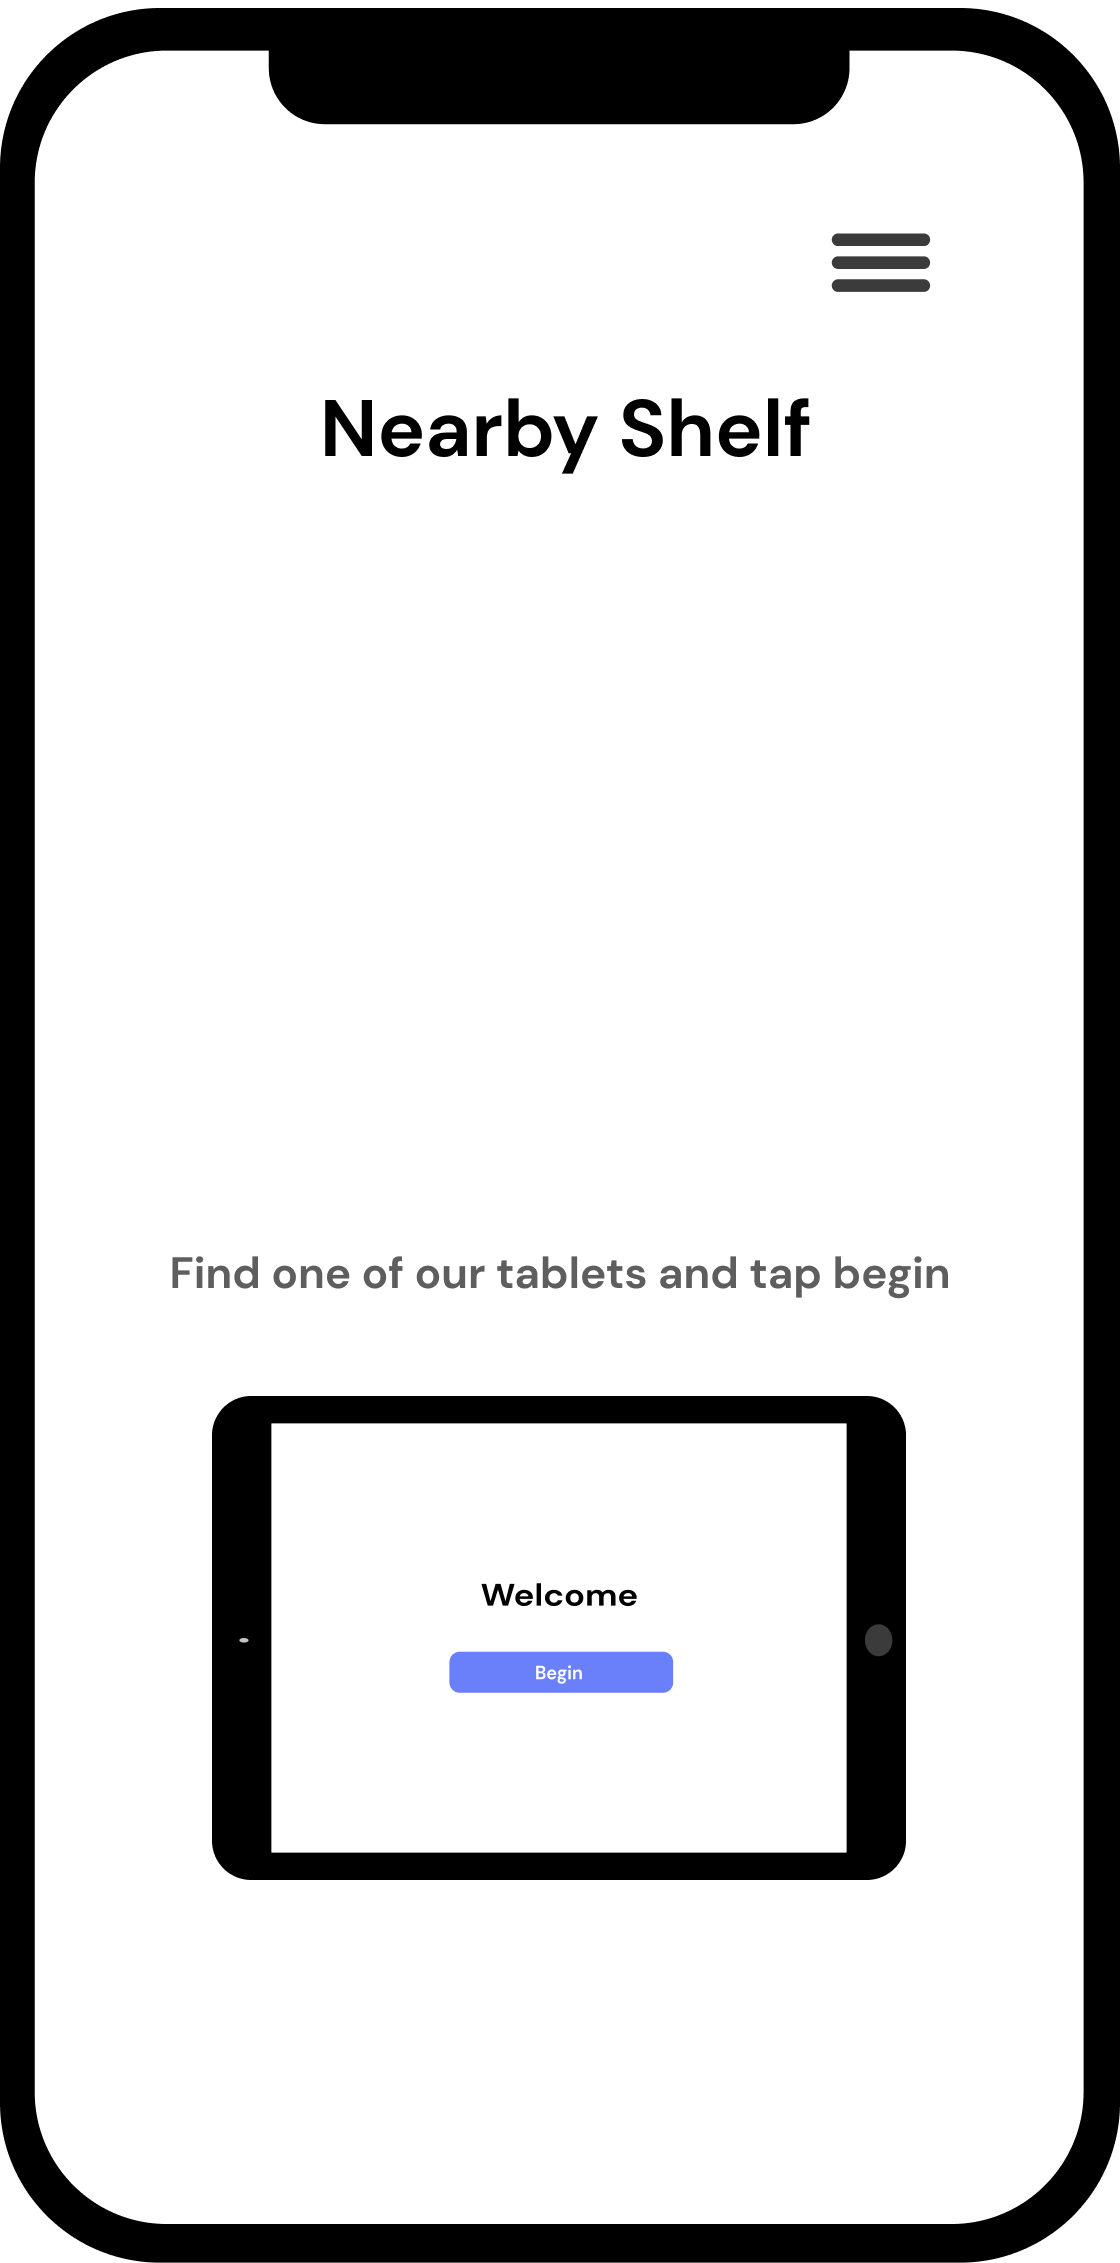
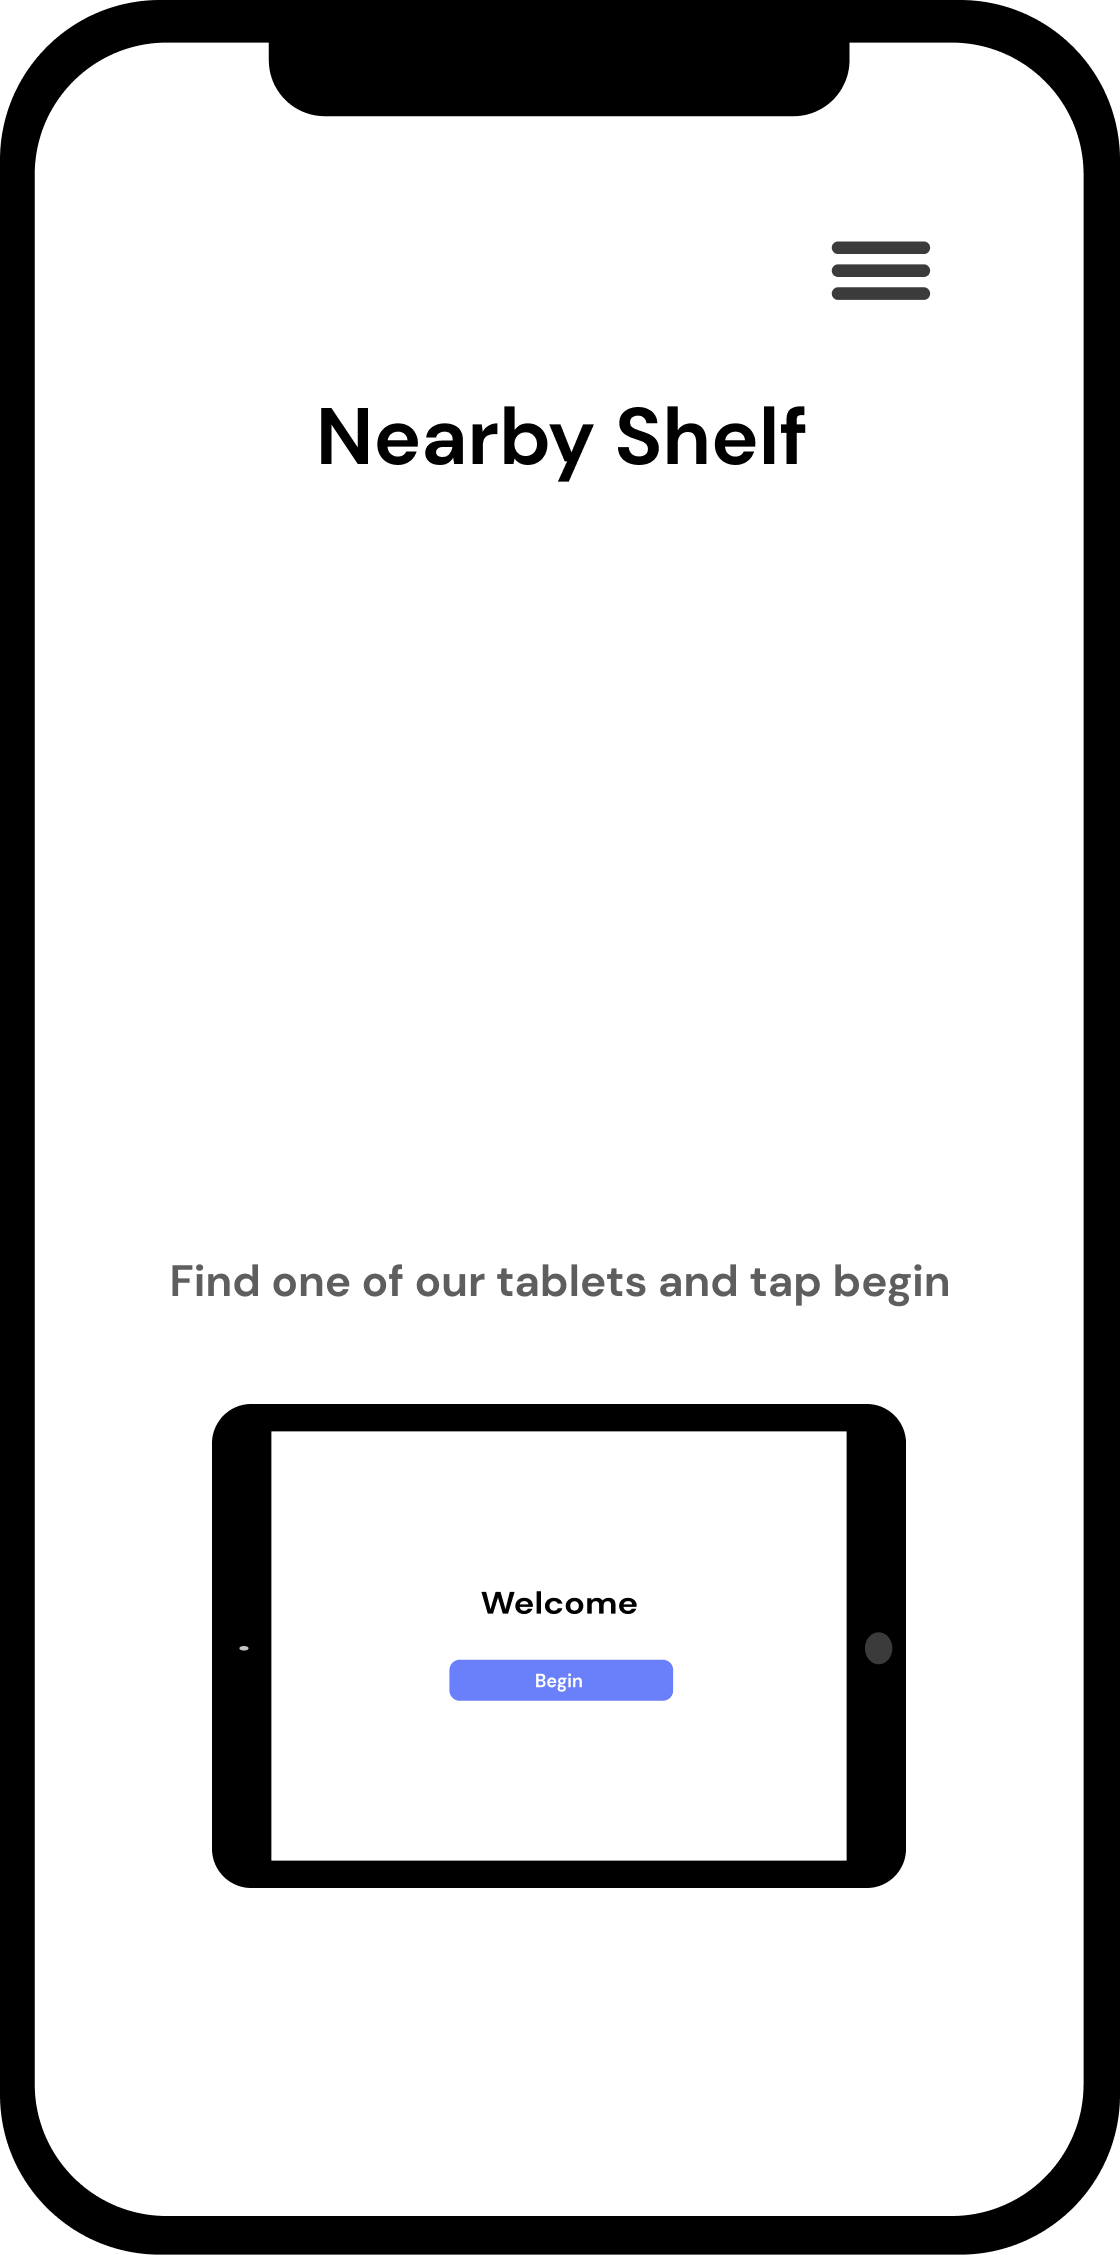
Iphone Section Touchup
- Fix sizing issues on Iphone section (new screen pngs)
- Add background layer of Iphone to account for between loads of various screens
- Add found shelf item component

diff --git a/src/components/devices/Iphone.js b/src/components/devices/Iphone.js
@@ -6,6 +6,8 @@ import SEO from "../../components/seo"
 import { projectRetail_themes } from "../styles/ColorStyles"
 import { H1, MediumText } from "../styles/TextStyles"
 
+import { iPhoneDevice } from "../../components/styles/IphoneStyles.js"
+
 import IphoneBeginScreen from "../screens/iphone-screens/IphoneBeginScreen.js"
 import IphoneSearchingScreen from "../screens/iphone-screens/IphoneSearchingScreen.js"
 import IphoneFoundShelfScreen from "../screens/iphone-screens/IphoneFoundShelfScreen.js"
@@ -32,25 +34,37 @@ export default function Iphone(props) {
   }
   return (
     <IphoneWrapper>
+      <IphoneImg src="/images/devices/iPhone.svg" />
       <ScreenWrapper>{renderScreen()}</ScreenWrapper>
     </IphoneWrapper>
   )
 }
 
 const IphoneWrapper = styled.div`
-  margin: auto;
+  justify-self: center;
   position: relative;
+  width: 260px; //530
+  height: 518px; //370
+
+  @media (max-width: 550px) {
+    width: 130px;
+    height: 256px;
+  }
+
+  //Phones
+  @media (max-width: 400px) {
+    width: 130px;
+    height: 256px;
+  }
 `
 
 const ScreenWrapper = styled.div`
-  margin: auto;
-  position: relative;
+  position: absolute;
   width: 100%;
   height: 100%;
-  top: -5px;
   left: 0px;
-  justify-content: center;
-  flex-direction: column;
-  align-items: center;
-  display: flex;
+`
+
+const IphoneImg = styled(iPhoneDevice)`
+  position: absolute;
 `

diff --git a/src/components/styles/IphoneStyles.js b/src/components/styles/IphoneStyles.js
@@ -1,6 +1,23 @@
 import React from "react"
 import styled from "styled-components"
 
+export const iPhoneDevice = styled.img`
+  //Starting size
+  width: 260px; //530
+  height: 518px; //370
+
+  @media (max-width: 550px) {
+    width: 130px;
+    height: 256px;
+  }
+
+  //Phones
+  @media (max-width: 400px) {
+    width: 130px;
+    height: 256px;
+  }
+`
+
 export const BeaconDevice = styled.img`
   //Starting size
   width: 100px; //530
@@ -87,19 +104,4 @@ export const iPadScreenOverlay = styled.div`
   }
 `
 
-export const iPhoneScreen = styled.img`
-  //Starting size
-  width: 260px; //530
-  height: 518px; //370
-
-  @media (max-width: 550px) {
-    width: 130px;
-    height: 256px;
-  }
-
-  //Phones
-  @media (max-width: 400px) {
-    width: 130px;
-    height: 256px;
-  }
-`
+export const iPhoneScreen = styled(iPhoneDevice)``

diff --git a/src/components/screens/iphone-screens/IphoneFoundShelfScreen.js b/src/components/screens/iphone-screens/IphoneFoundShelfScreen.js
@@ -15,7 +15,33 @@ import {
 } from "../../../components/styles/ButtonStyles"
 
 export default function IphoneFoundShelfScreen(props) {
-  return <Screen src="/images/components/IphoneFoundShelfScreen.png" />
+  return (
+    <ScreenWrapper>
+      <Screen src="/images/components/IphoneFoundShelfScreen.png" />
+      <FoundItem src="/images/components/ShelfItem.png" />
+    </ScreenWrapper>
+  )
 }
 
+const ScreenWrapper = styled.div`
+  display: grid;
+`
+
 const Screen = styled(iPhoneScreen)``
+
+const FoundItem = styled.img`
+  position: absolute;
+  width: 220px;
+  height: 55px;
+  top: 25%;
+  left: 50%;
+  margin-left: -110px;
+
+  @media (max-width: 550px) {
+    width: 110px;
+    height: 27.5px;
+    top: 25%;
+    left: 50%;
+    margin-left: -55px;
+  }
+`

diff --git a/src/components/sections/IphoneSection.js b/src/components/sections/IphoneSection.js
@@ -108,7 +108,7 @@ const fadeOut = keyframes`
 `
 
 const Wrapper = styled.div`
-  padding: 150px 0px 20px 0px;
+  padding: 80px 0px 20px 0px;
   display: grid;
   background: white;
   height: auto;
@@ -131,7 +131,7 @@ const ContentWrapper = styled.div`
   display: grid;
   grid-template-columns: auto auto;
   gap: 100px;
-  margin-bottom: 270px;
+  margin-bottom: 220px;
 
   @media (max-width: 1100px) {
     gap: 30px;
